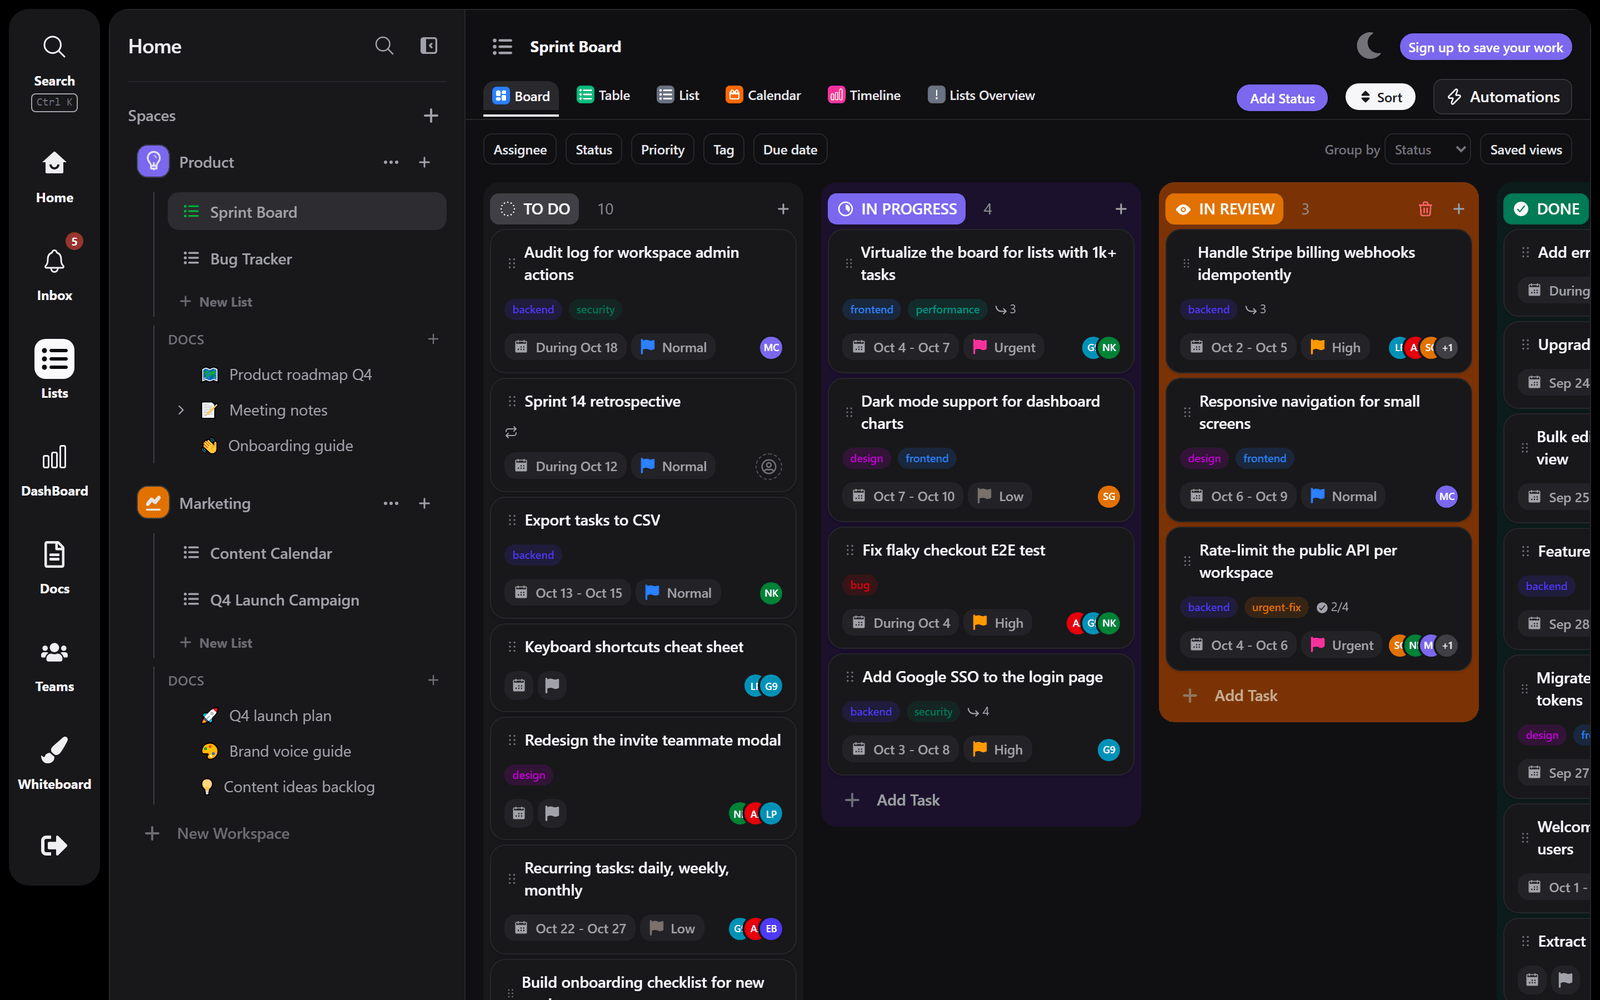
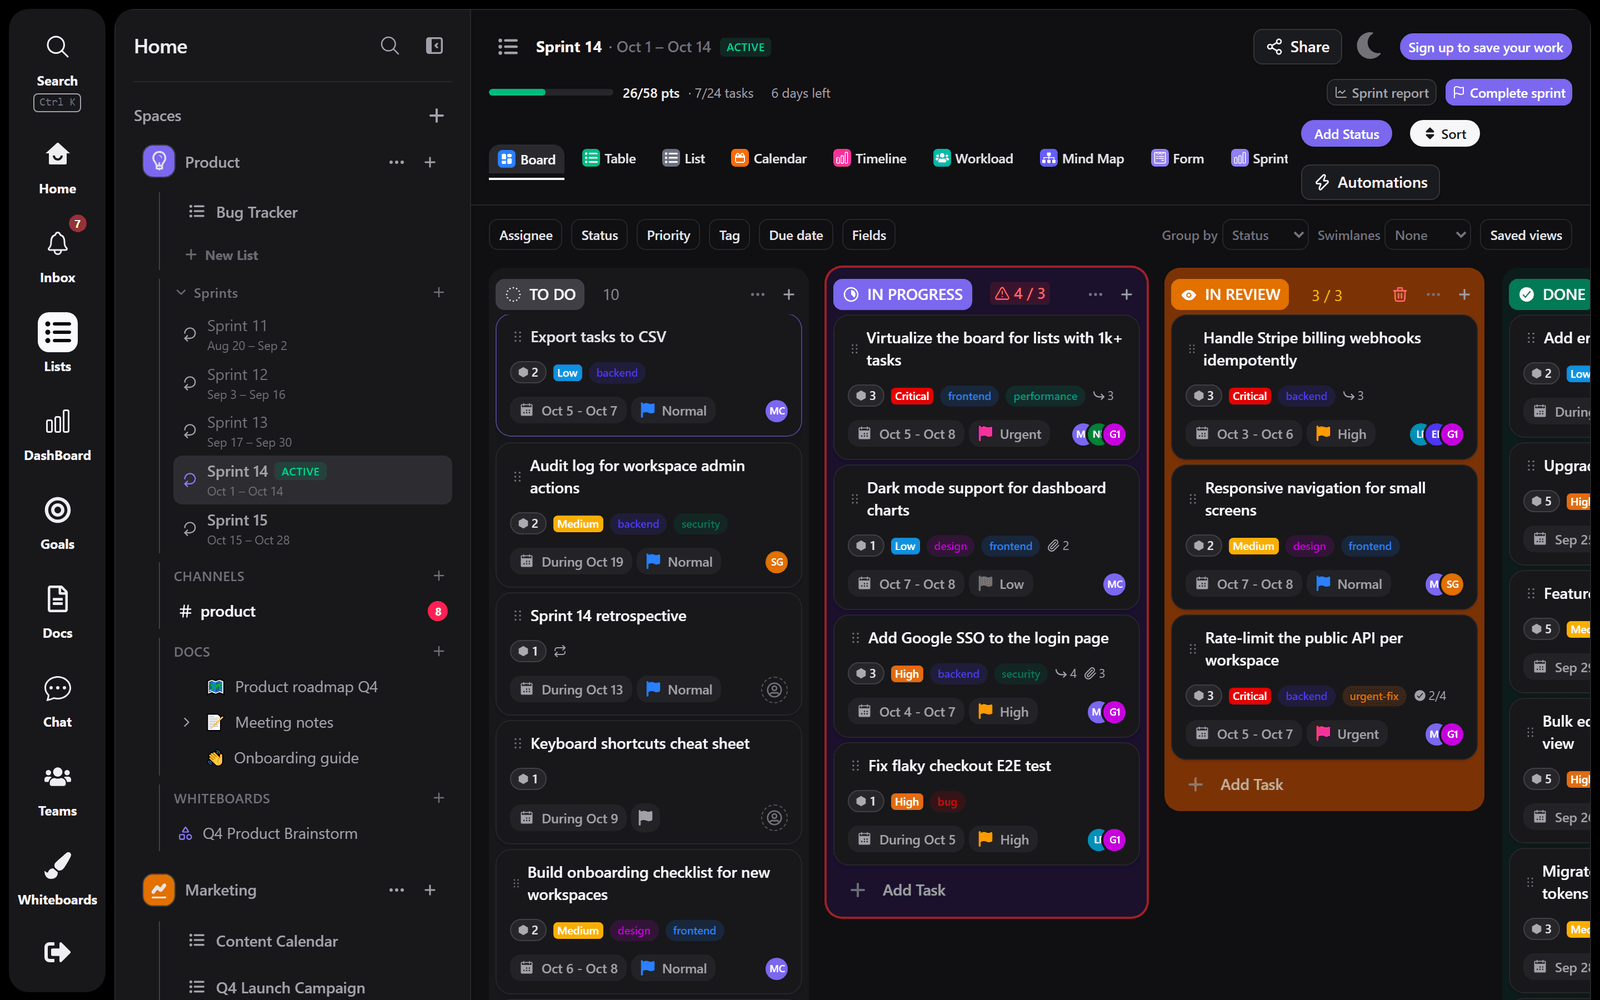
Show the new features on the landing page and README
Landing showcase gains Workload, Mind Map and Chat tabs; README gets
screenshots for workload, mind map, sprints, goals, chat, whiteboards and forms
plus an updated feature list. The capture script now shoots those screens; all
images, the demo GIF and the OG card are re-captured from the live demo.

diff --git a/apps/web/src/features/landing/ViewShowcase.tsx b/apps/web/src/features/landing/ViewShowcase.tsx
@@ -5,8 +5,11 @@ import { useState } from "react";
 import {
   ChartColumn,
   ChartGantt,
+  MessagesSquare,
+  Network,
   PanelRight,
   SquareKanban,
+  UsersRound,
   type LucideIcon,
 } from "lucide-react";
 
@@ -40,6 +43,30 @@ const VIEWS: {
     caption:
       "Subtasks, checklists, comments with @mentions, time tracking and an activity log, all on one task.",
     alt: "Task panel with description, subtasks and activity",
+  },
+  {
+    key: "workload",
+    label: "Workload",
+    Icon: UsersRound,
+    caption:
+      "See who is overloaded this week against their capacity, then drag a task to someone with room.",
+    alt: "Workload view with an overloaded teammate highlighted in red",
+  },
+  {
+    key: "mindmap",
+    label: "Mind Map",
+    Icon: Network,
+    caption:
+      "Tasks and their subtasks as a zoomable tree. Add a child node and it becomes a subtask.",
+    alt: "Mind map of a sprint's tasks and nested subtasks",
+  },
+  {
+    key: "chat",
+    label: "Chat",
+    Icon: MessagesSquare,
+    caption:
+      "Channels per space with @mentions and threads. Turn any message into a task in one click.",
+    alt: "Product chat channel with mentions, reactions and a linked task",
   },
   {
     key: "dashboard",

diff --git a/README.md b/README.md
@@ -1,6 +1,6 @@
 # ClickUp Clone
 
-A full-stack, ClickUp-style work management app: spaces, lists and tasks viewed as a Board, List, Table, Calendar or Gantt Timeline, with a rich task panel, comments, docs, dashboards, automations, time tracking and Claude AI. Built as a pnpm + Turborepo monorepo with a Next.js front end, an Express + Prisma API and a shared zod schema package.
+A full-stack, ClickUp-style work management app: spaces, lists and tasks viewed as a Board, List, Table, Calendar, Gantt Timeline, Workload or Mind Map, with custom fields, sprints, goals, chat, docs, whiteboards, forms, dashboards, automations, time tracking and Claude AI. Built as a pnpm + Turborepo monorepo with a Next.js front end, an Express + Prisma API and a shared zod schema package.
 
 [![CI](https://github.com/alysalah83/Click-up-clone/actions/workflows/ci.yml/badge.svg)](https://github.com/alysalah83/Click-up-clone/actions/workflows/ci.yml)
 
@@ -22,7 +22,7 @@ A full-stack, ClickUp-style work management app: spaces, lists and tasks viewed 
     <td align="center"><img src="assets/screenshots/dashboard.png" alt="Dashboard" /><br><strong>Dashboard</strong>: workload, overdue, burndown, time tracked</td>
   </tr>
   <tr>
-    <td align="center"><img src="assets/screenshots/table.png" alt="Table view" /><br><strong>Table</strong> with bulk edit</td>
+    <td align="center"><img src="assets/screenshots/table.png" alt="Table view" /><br><strong>Table</strong>: custom fields (dropdown, people, progress, formula) and bulk edit</td>
     <td align="center"><img src="assets/screenshots/calendar.png" alt="Calendar view" /><br><strong>Calendar</strong>: month and week, drag to reschedule</td>
   </tr>
   <tr>
@@ -31,6 +31,22 @@ A full-stack, ClickUp-style work management app: spaces, lists and tasks viewed 
   </tr>
   <tr>
     <td align="center"><img src="assets/screenshots/inbox.png" alt="Inbox" /><br><strong>Inbox</strong>: mentions, assignments, status changes</td>
+    <td align="center"><img src="assets/screenshots/teams.png" alt="Teams" /><br><strong>Teams</strong>: members, roles, invite links</td>
+  </tr>
+  <tr>
+    <td align="center"><img src="assets/screenshots/workload.png" alt="Workload view" /><br><strong>Workload</strong>: capacity per person, overloads in red, drag to reassign</td>
+    <td align="center"><img src="assets/screenshots/mindmap.png" alt="Mind Map view" /><br><strong>Mind Map</strong>: zoomable task tree, add a node to create a subtask</td>
+  </tr>
+  <tr>
+    <td align="center"><img src="assets/screenshots/sprint.png" alt="Sprint report" /><br><strong>Sprints</strong>: points, carry-over, burndown and velocity</td>
+    <td align="center"><img src="assets/screenshots/goals.png" alt="Goals" /><br><strong>Goals</strong>: OKR targets that move as tasks complete</td>
+  </tr>
+  <tr>
+    <td align="center"><img src="assets/screenshots/chat.png" alt="Chat channel" /><br><strong>Chat</strong>: channels per space, @mentions, threads, message to task</td>
+    <td align="center"><img src="assets/screenshots/whiteboard.png" alt="Whiteboard" /><br><strong>Whiteboards</strong>: saved per space, sticky note to task</td>
+  </tr>
+  <tr>
+    <td align="center"><img src="assets/screenshots/form.png" alt="Form builder" /><br><strong>Forms</strong>: public form links whose submissions create tasks</td>
     <td align="center"><img src="assets/screenshots/board-light.png" alt="Light theme" /><br><strong>Light theme</strong></td>
   </tr>
 </table>
@@ -44,12 +60,13 @@ A full-stack, ClickUp-style work management app: spaces, lists and tasks viewed 
 
 ## Features
 
-- **Views:** Board, List, Table, Calendar (month/week) and Timeline (Gantt) over the same tasks; drag and drop on Board, Calendar and Timeline.
-- **Tasks:** custom statuses per list, priorities, dates, assignees, Tiptap rich-text descriptions, subtasks, checklists, colored tags, "blocked by" dependencies, recurring tasks, activity log.
-- **Collaboration:** workspace members and roles, invite links, threaded comments with @mentions and emoji reactions, Inbox with unread badge (polling, no WebSockets), My Work.
+- **Views:** Board (swimlanes by assignee or priority, WIP limits), List, Table, Calendar (month/week), Timeline (Gantt), Workload, Mind Map and Form over the same tasks; drag and drop on Board, Calendar, Timeline and Workload.
+- **Tasks:** custom statuses per list, custom fields (8 types including formulas), priorities, dates, assignees, sprint points, Tiptap rich-text descriptions, nested subtasks, checklists, colored tags, file attachments (Vercel Blob), "blocked by" dependencies, recurring tasks, templates, activity log.
+- **Collaboration:** workspace members and roles, invite links, threaded comments with @mentions and emoji reactions, chat channels per space, Inbox with unread badge (polling, no WebSockets), My Work, public read-only share links for lists and docs, public forms.
 - **Organize:** filters, group by and saved views with a default per list; Ctrl+K command palette across tasks, lists, docs and members.
-- **Automate and measure:** per-list automation rules (trigger, condition, action), time tracking with a live timer, dashboards with workload, overdue, completed this week and burndown.
-- **Docs and whiteboard:** nested pages per space with autosave; an Excalidraw whiteboard.
+- **Plan and measure:** sprints with carry-over, burndown and velocity; Goals/OKRs with live progress; per-list automation rules; time tracking with a live timer; dashboards with workload, overdue, completed this week and burndown.
+- **Docs and whiteboards:** nested pages per space with autosave; Excalidraw whiteboards saved per space, with sticky notes that become tasks.
+- **Import:** CSV (column mapping) and Trello JSON exports into a new list.
 - **AI:** Claude summarizes a task or generates subtasks from it.
 - **Polish:** dark and light themes, phone layout, accessible Radix/shadcn menus and dialogs, instant guest demo from a pre-seeded account pool.
 
